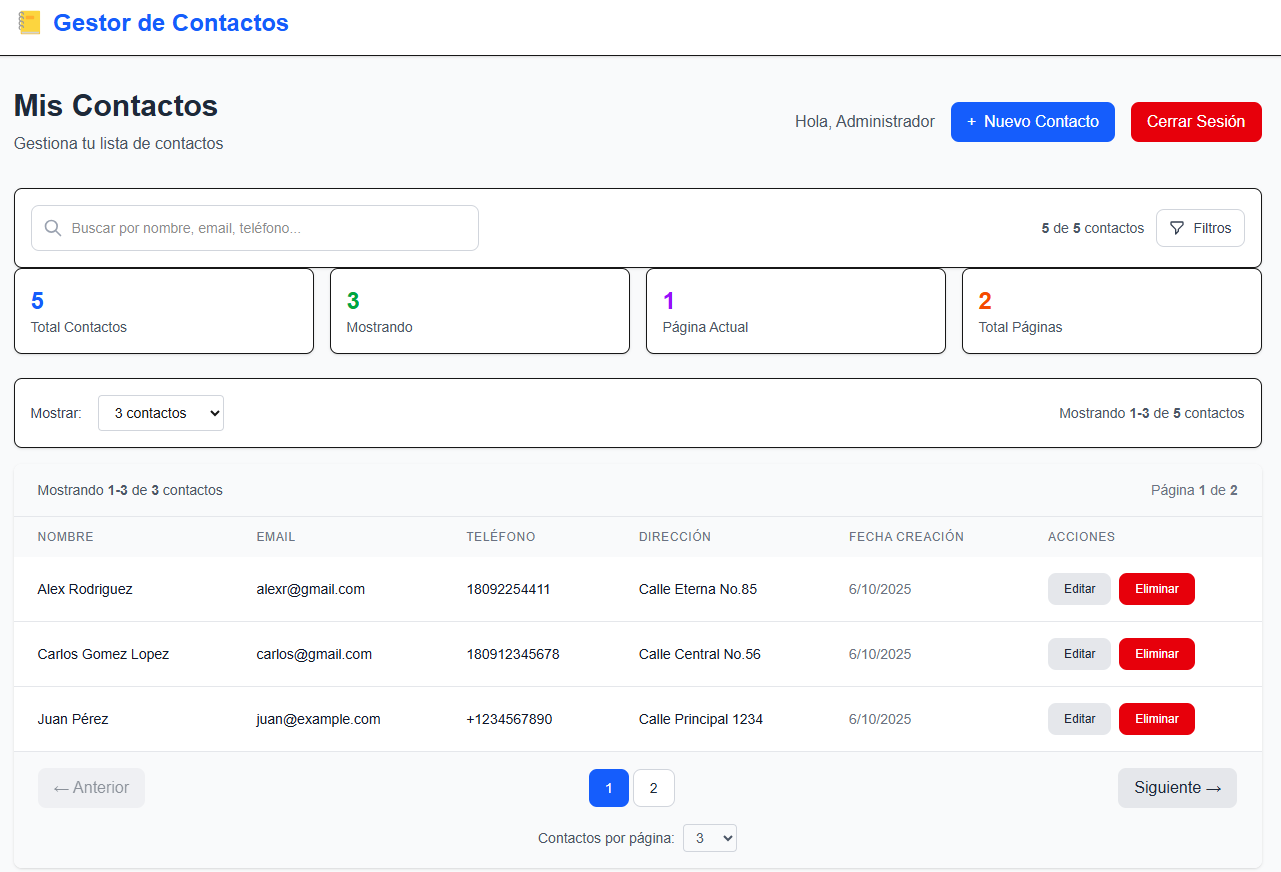
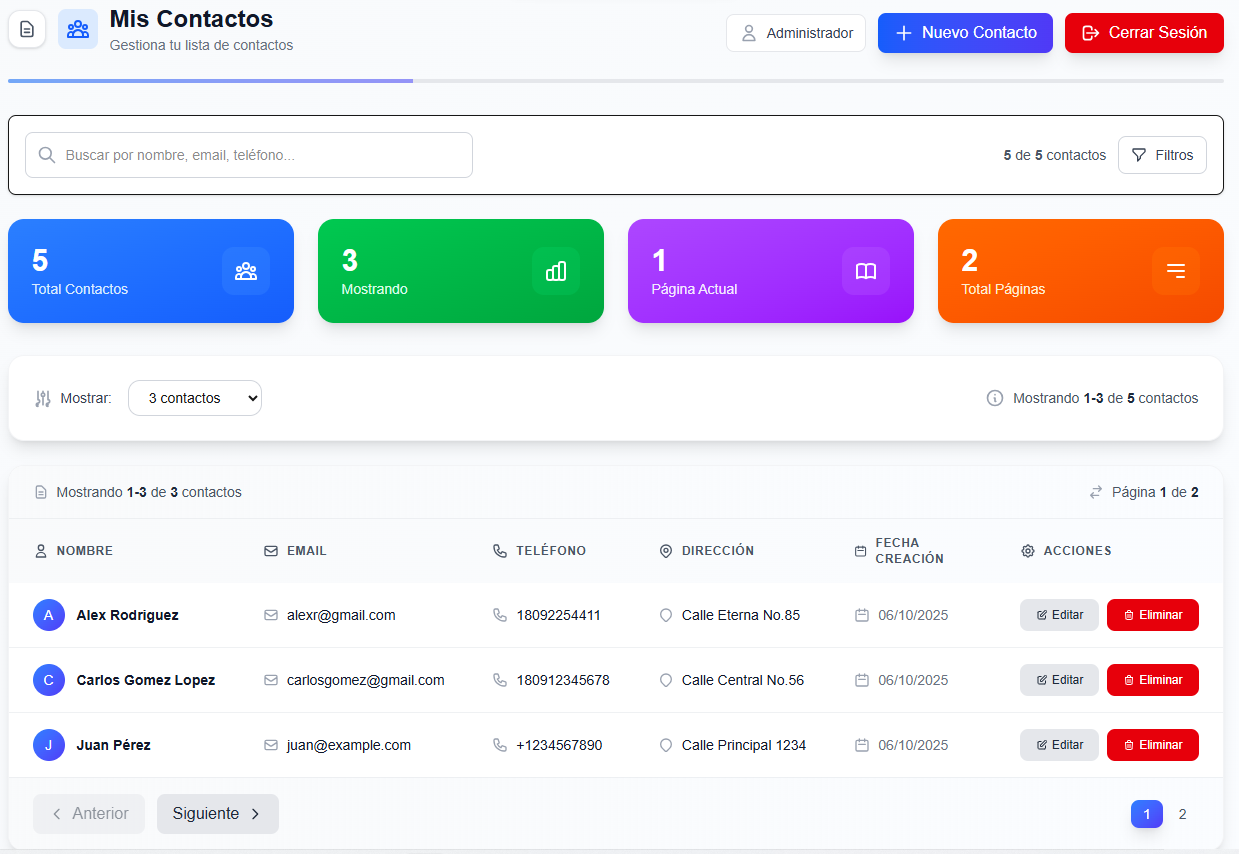
docs: agregar capturas de confirmaciones SweetAlert2 al README
- Confirmación Eliminar Contacto: Modal con nombre del contacto y advertencia irreversible
- Confirmación Cerrar Sesión: Modal de confirmación para logout del usuario
- Eliminación Exitosa: Feedback visual cuando contacto se elimina correctamente

diff --git a/README.md b/README.md
@@ -21,7 +21,16 @@ Una aplicación web **completa y profesional** para gestionar contactos, constru
 - ↕ **Ordenamiento múltiple** (nombre, email, teléfono, fecha)  
 - 💬 **Toasts profesionales** para todas las operaciones  
 - 🪟 **Modales** para crear y editar contactos  
-- 📈 **Estadísticas en tiempo real**  
+- 📈 **Estadísticas en tiempo real**
+- 🎨 **Diseño moderno** con gradientes y bordes redondeados
+- 🔘 **Iconos representativos** en todos los botones y componentes
+- ⚡ **Confirmaciones interactivas** con SweetAlert2
+- 🎯 **Experiencia de usuario mejorada** con transiciones suaves
+- 📱 **Diseño completamente responsive** y adaptable
+- ✨ **Efectos visuales** en hover y estados activos
+- 🗑 **Confirmación de eliminación** con modal personalizado
+- 🔐 **Confirmación de cierre de sesión** con SweetAlert
+- 📋 **Avatar circular** con inicial del contacto en la tabla
 
 ---
 
@@ -43,6 +52,15 @@ Visualiza la interfaz moderna y funcional del sistema:
 
 ### 🔔 Notificaciones Toast
 ![Notificaciones Toast](assets/screenshots/notificaciones-toasts.png)
+
+### 🗑 Confirmación Eliminar Contacto
+![Confirmación Eliminar Contacto](assets/screenshots/confirmacion-eliminar-contacto.png)
+
+### 🔐 Confirmación Cerrar Sesión
+![Confirmación Cerrar Sesión](assets/screenshots/confirmacion-cerrar-sesion.png)
+
+### ✅ Eliminación Exitosa
+![Eliminación Exitosa](assets/screenshots/eliminacion-exitosa.png)
 
 ---
 
